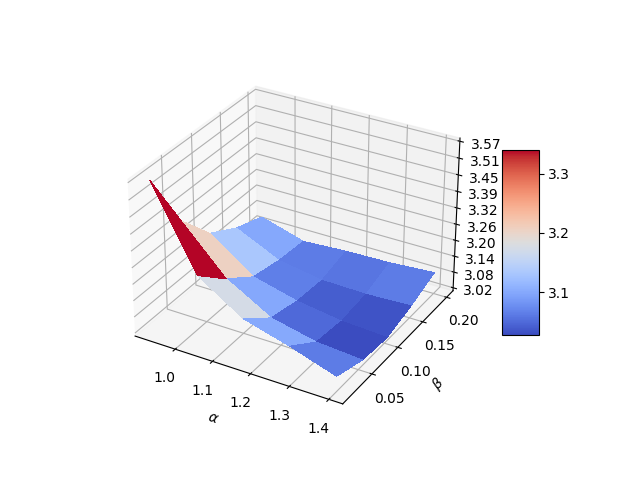
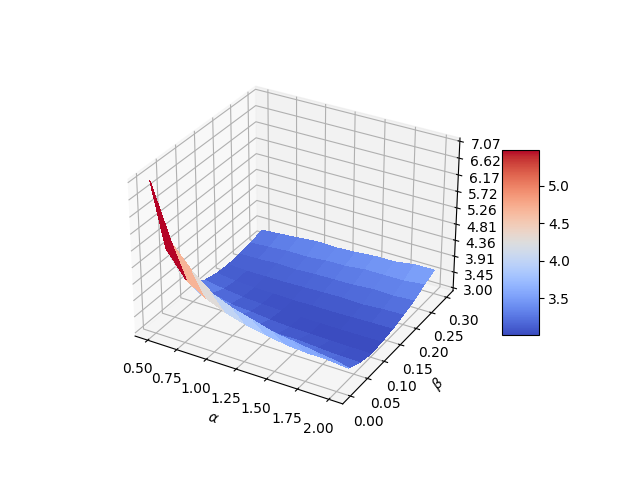
Clean out old versions

diff --git a/VariationalMonteCarlo/MCSampler.py b/VariationalMonteCarlo/MCSampler.py
@@ -43,60 +43,6 @@ def mc_sampler_1_dim(trial_wave_function, local_energy_function, max_variations,
     return energies, alpha_values, variances
 
 
-def mc_sampler_2_dims(trial_wave_function, local_energy_function, num_particles, dimensions, max_variations, outfile):
-    alpha_values = np.zeros(max_variations)
-    beta_values = np.zeros(max_variations)
-    energies = np.zeros((max_variations, max_variations))
-    variances = np.zeros((max_variations, max_variations))
-
-    NumberMCcycles = 25000
-    StepSize = 1.0
-    PositionOld = np.zeros((num_particles, dimensions), np.double)
-    PositionNew = np.zeros((num_particles, dimensions), np.double)
-
-    seed()
-    alpha = 0.9
-    for ia in range(max_variations):
-        alpha += .025
-        alpha_values[ia] = alpha
-        beta = 0.0
-        for jb in range(max_variations):
-            beta += .01
-            beta_values[jb] = beta
-            energy = energy2 = 0.0
-            # Initial position
-            for i in range(num_particles):
-                for j in range(dimensions):
-                    PositionOld[i, j] = StepSize * (random() - .5)
-            wfold = trial_wave_function(PositionOld, alpha, beta)
-
-            # Loop over MC MCcycles
-            for cycle in range(NumberMCcycles):
-                # Trial position moving one particle at the time
-                for i in range(num_particles):
-                    for j in range(dimensions):
-                        PositionNew[i, j] = PositionOld[i, j] + StepSize * (random() - .5)
-                    wfnew = trial_wave_function(PositionNew, alpha, beta)
-
-                    # Metropolis test to see whether we accept the move
-                    if random() < wfnew ** 2 / wfold ** 2:
-                        for j in range(dimensions):
-                            PositionOld[i, j] = PositionNew[i, j]
-                        wfold = wfnew
-                DeltaE = local_energy_function(PositionOld, alpha, beta)
-                energy += DeltaE
-                energy2 += DeltaE ** 2
-            # We calculate mean, variance and error ...
-            energy /= NumberMCcycles
-            energy2 /= NumberMCcycles
-            variance = energy2 - energy ** 2
-            error = sqrt(variance / NumberMCcycles)
-            energies[ia, jb] = energy
-            variances[ia, jb] = variance
-            outfile.write('%f %f %f %f %f\n' % (alpha, beta, energy, variance, error))
-    return energies, variances, alpha_values, beta_values
-
-
 def mc_sampler_any_dims(trial_wave_function, local_energy_function, system_dimensions: int,
                         variational_values: np.array, outfile):
     (num_variations, variational_dimensions) = variational_values.shape

diff --git a/main.py b/main.py
@@ -2,8 +2,8 @@ import os
 from math import exp, sqrt
 import numpy as np
 
-from VariationalMonteCarlo.MCSampler import mc_sampler_1_dim, mc_sampler_any_dims
-from plotting import energy_variance_plot, plot_energy_variance_2dims
+from VariationalMonteCarlo.MCSampler import mc_sampler_any_dims
+from plotting import plot_energy_variance_2dims
 
 # NAME_OF_SYSTEM = "VMCHarmonic"
 NAME_OF_SYSTEM = "VMCQdotMetropolis"
@@ -71,28 +71,10 @@ def q_dot_q_force(r, variational_params):
     return qforce
 
 
-def q_dot_wf_OLD(r, alpha, beta):
-    r1 = r[0, 0] ** 2 + r[0, 1] ** 2
-    r2 = r[1, 0] ** 2 + r[1, 1] ** 2
-    r12 = sqrt((r[0, 0] - r[1, 0]) ** 2 + (r[0, 1] - r[1, 1]) ** 2)
-    deno = r12 / (1 + beta * r12)
-    return exp(-0.5 * alpha * (r1 + r2) + deno)
-
-
-def q_dot_local_energy_OLD(r, alpha, beta):
-    r1 = (r[0, 0] ** 2 + r[0, 1] ** 2)
-    r2 = (r[1, 0] ** 2 + r[1, 1] ** 2)
-    r12 = sqrt((r[0, 0] - r[1, 0]) ** 2 + (r[0, 1] - r[1, 1]) ** 2)
-    deno = 1.0 / (1 + beta * r12)
-    deno2 = deno * deno
-    return 0.5 * (1 - alpha * alpha) * (r1 + r2) + 2.0 * alpha + 1.0 / r12 + deno2 * (
-            alpha * r12 - deno2 + 2 * beta * deno - 1.0 / r12)
-
-
 # Here starts the main program with variable declarations
-num_variations = 5
-alpha_values = np.linspace(0.925, 1.4, num_variations)
-beta_values = np.linspace(0.01, 0.2, num_variations)
+num_variations = 15
+alpha_values = np.linspace(0.5, 2.5, num_variations)
+beta_values = np.linspace(0., 0.5, num_variations)
 alpha_mesh, beta_mesh = np.meshgrid(alpha_values, beta_values)
 variational_values = np.column_stack((alpha_mesh.flatten(), beta_mesh.flatten()))
 
